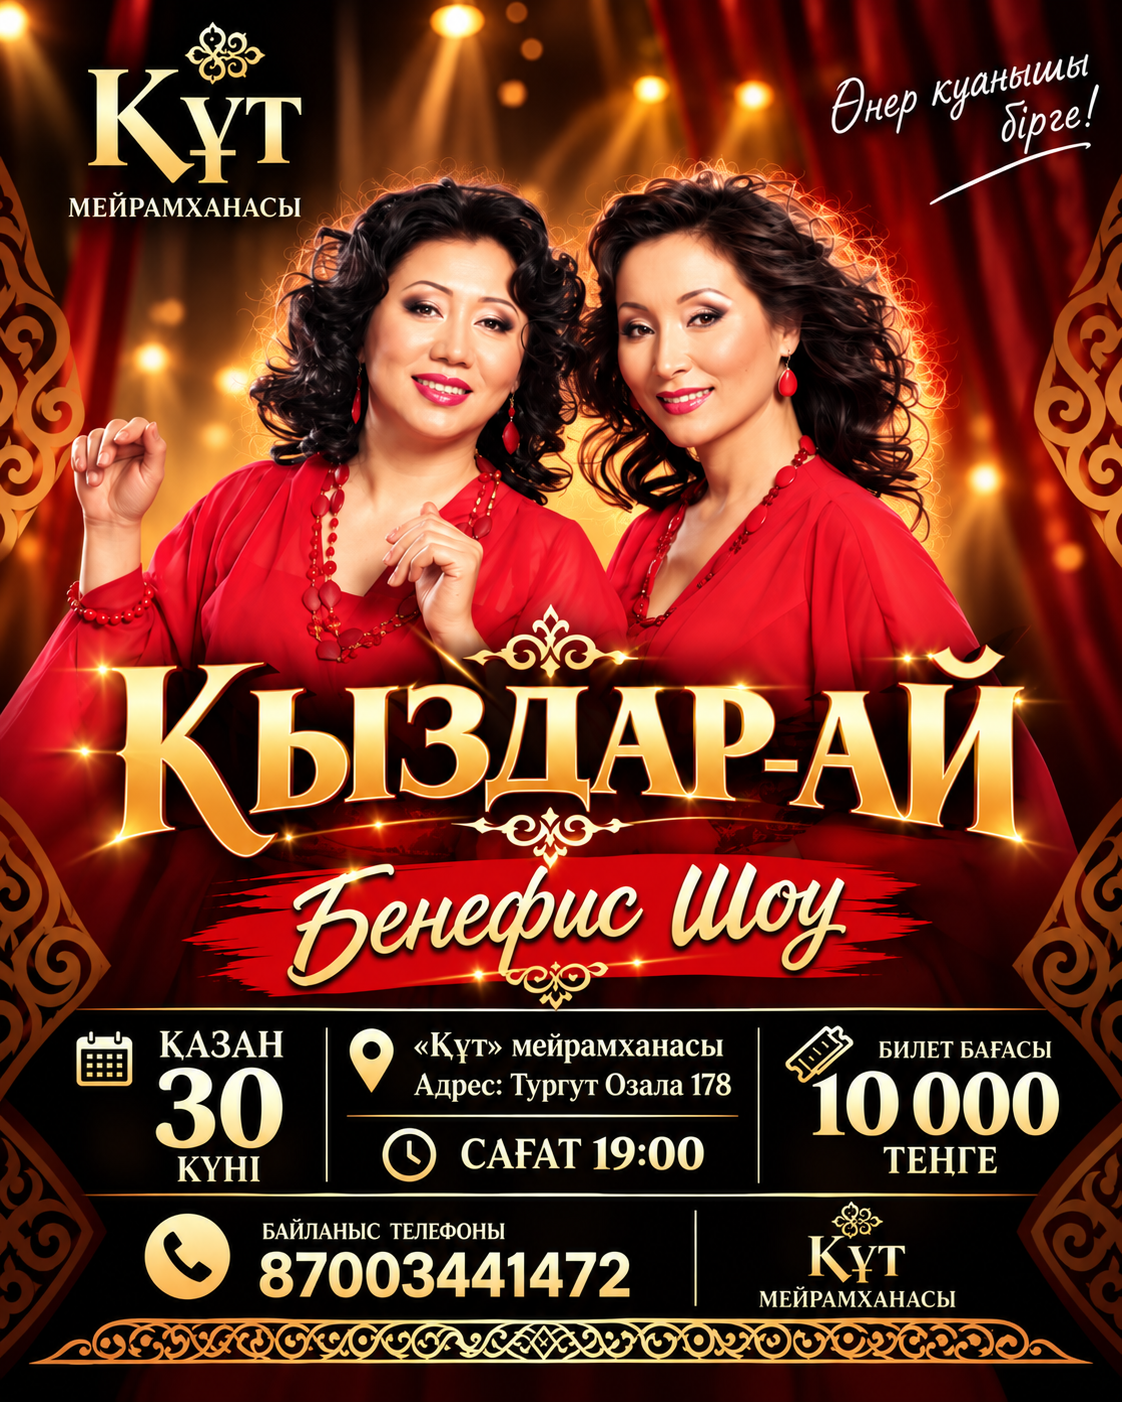
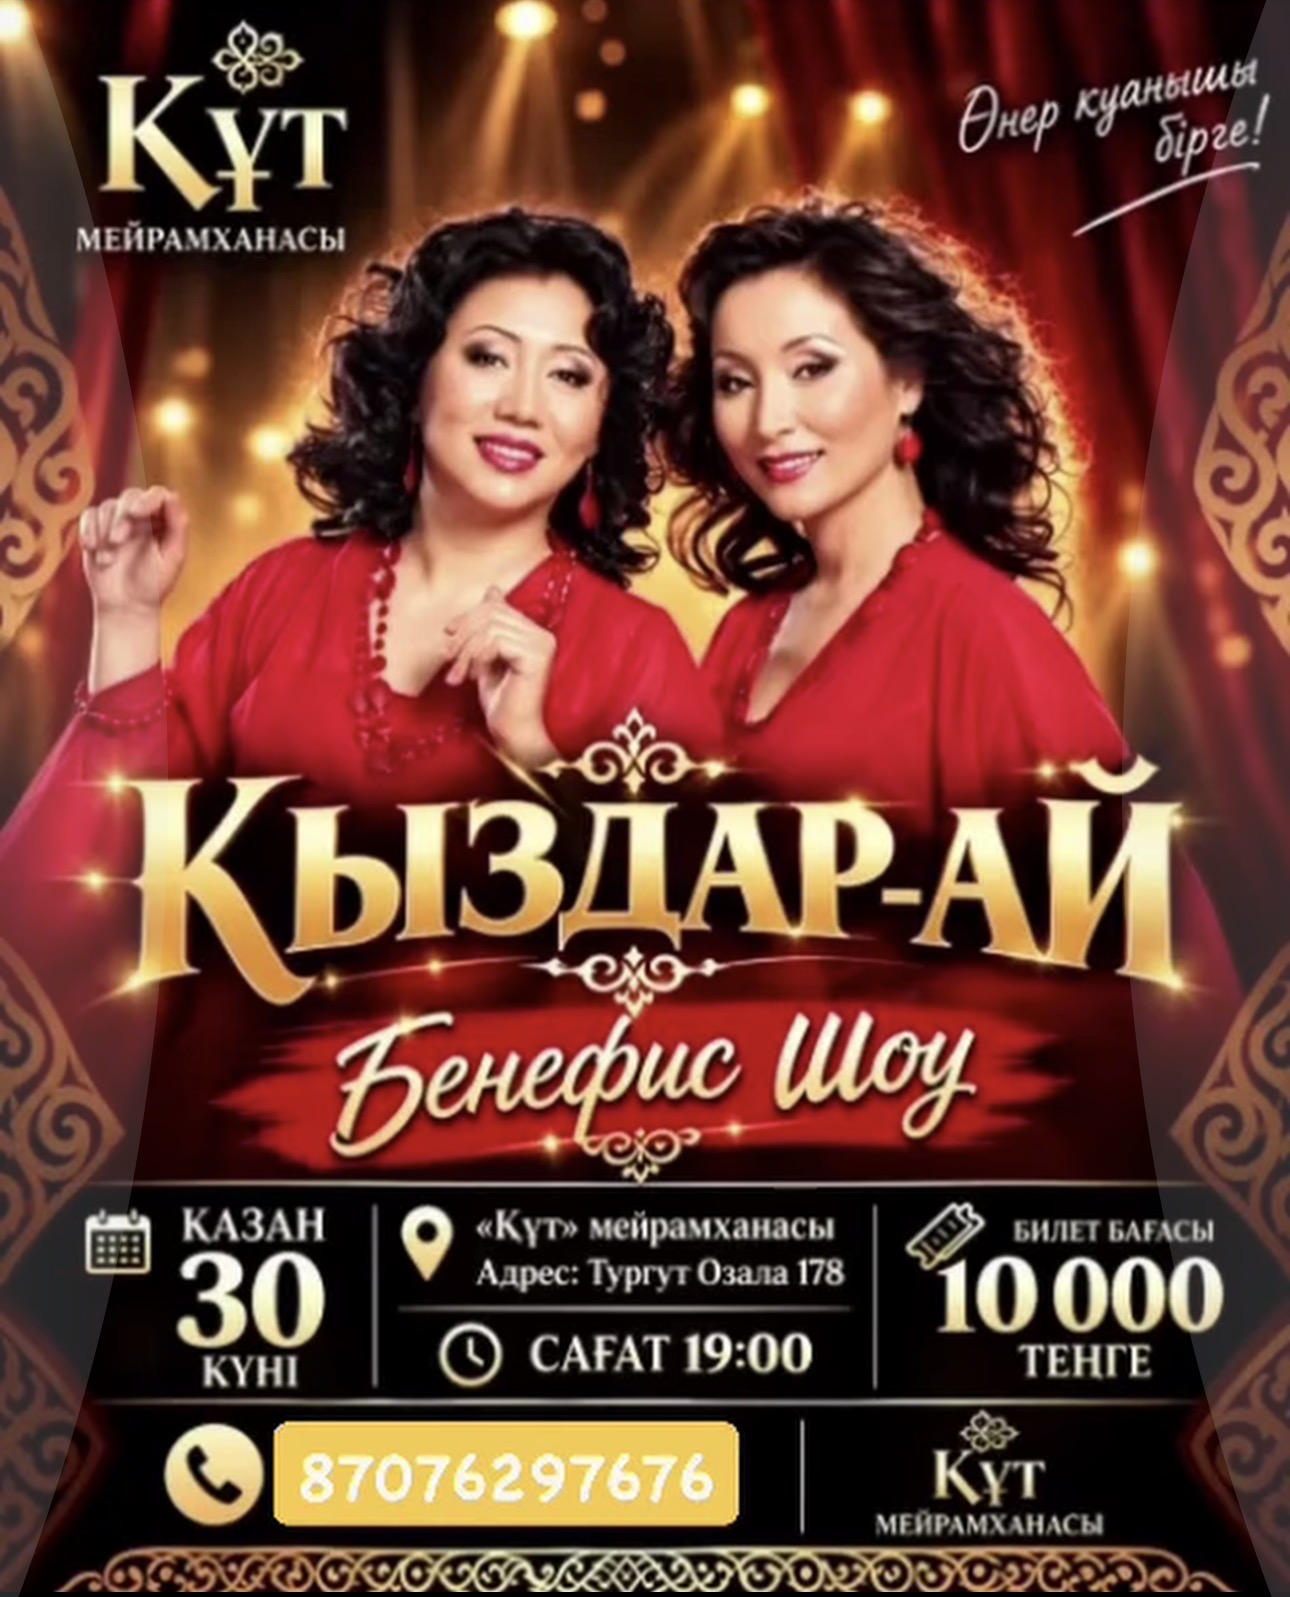
Use published poster asset for updated Қыздар-ай image

diff --git a/events.js b/events.js
@@ -40,7 +40,7 @@ window.QUT_EVENTS = [
     "type": "Бенефис шоу",
     "date": "30 қазан 2026",
     "time": "19:00",
-    "poster": "afisha-qyzdarai-20261017.jpg",
+    "poster": "afisha-qyzdarai.png?v=20261017",
     "venue": "«Құт» мейрамханасы, Тургут Озала 178",
     "price": 10000
   },
